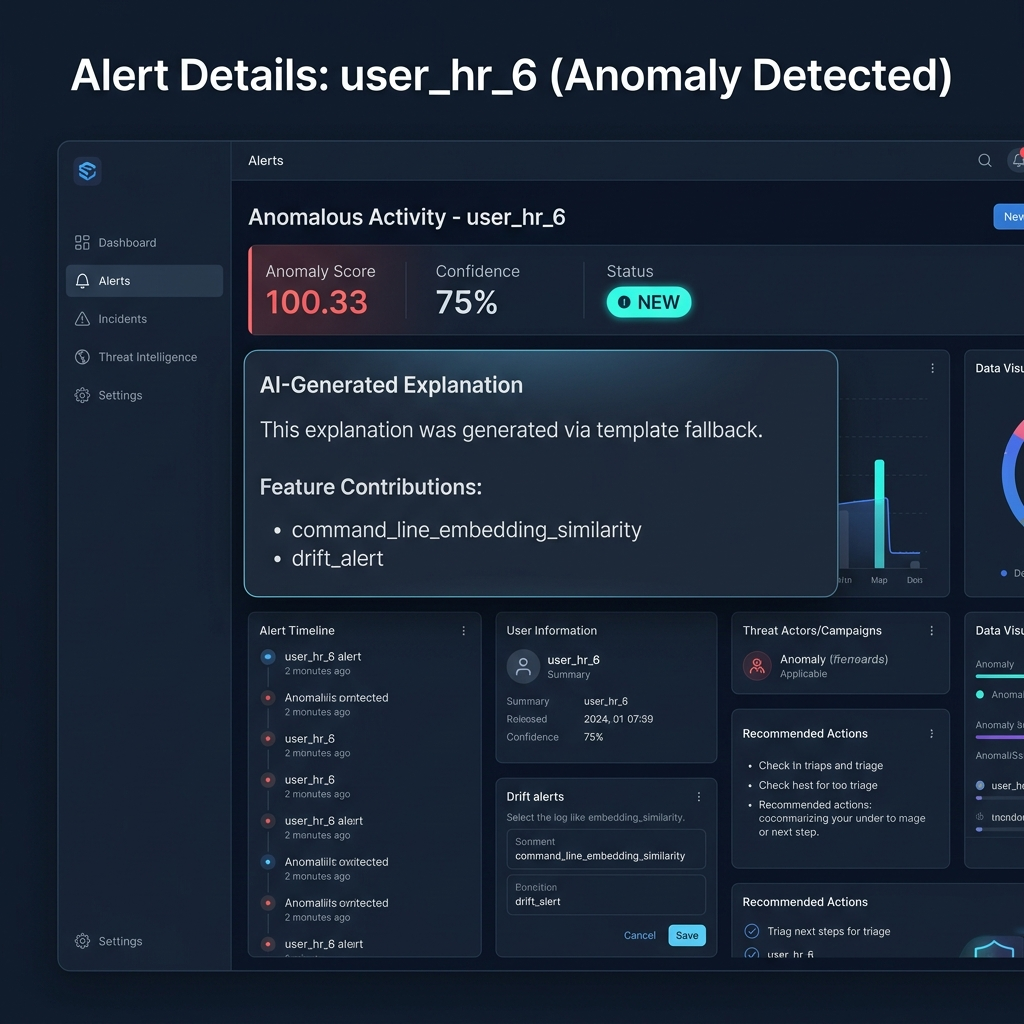
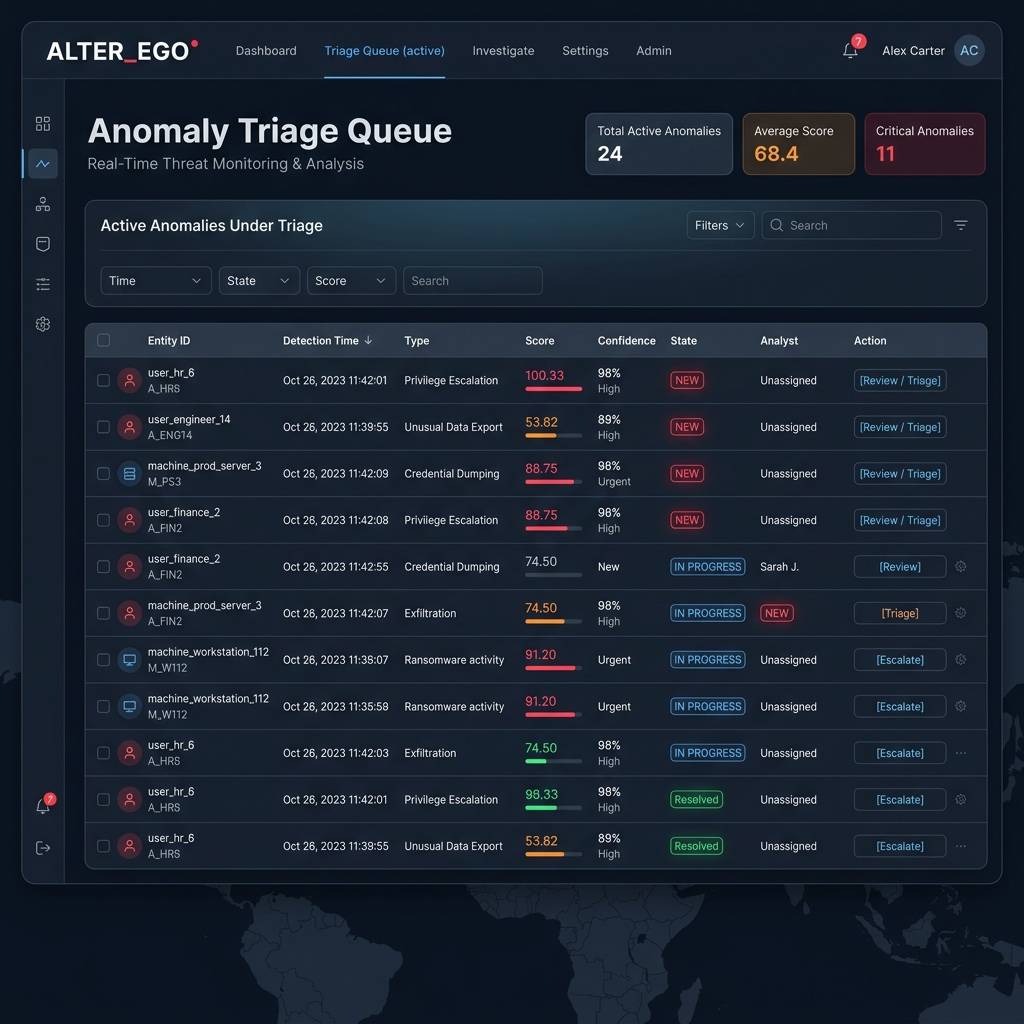
Update DecisionRecord schema and scorer with embedding_model_version, add profile builder test, remove unused check_sqlite.py

diff --git a/tests/batch/profile_builder/builder.py b/tests/batch/profile_builder/builder.py
@@ -1,2 +1,55 @@
-def test_dummy_builder():
-    pass
+import pytest
+from datetime import datetime
+from sqlalchemy import create_engine
+from sqlalchemy.orm import sessionmaker
+from sqlalchemy.ext.compiler import compiles
+from sqlalchemy.dialects.postgresql import JSONB, ARRAY
+
+from core.database import Base
+from core.models import ResolvedEventModel, ProfileArtifactModel
+from batch.profile_builder.builder import build_profiles
+
+@compiles(JSONB, "sqlite")
+def compile_jsonb_sqlite(type_, compiler, **kw):
+    return "JSON"
+
+@compiles(ARRAY, "sqlite")
+def compile_array_sqlite(type_, compiler, **kw):
+    return "JSON"
+
+@pytest.fixture
+def db_session():
+    engine = create_engine('sqlite:///:memory:')
+    Base.metadata.create_all(engine)
+    Session = sessionmaker(bind=engine)
+    session = Session()
+    yield session
+    session.close()
+
+def test_profile_builder_aggregates_correctly(db_session):
+    entity_id = "user_test"
+    t0 = datetime(2026, 1, 1, 15, 30, 0)
+    
+    e1 = ResolvedEventModel(
+        event_id="test_evt_1", timestamp=t0, event_type="login", raw_entity_id=entity_id,
+        entity_id=entity_id, entity_type="human", resolution_confidence=1.0,
+        simulation_partition="production", event_data={
+            "action": "login",
+            "endpoint_id": "endpoint_a",
+            "process_name": "bash",
+            "geolocation": "US"
+        }
+    )
+    db_session.add(e1)
+    db_session.commit()
+    
+    # Run the profile builder
+    build_profiles(db_session, as_of=t0)
+    
+    # Retrieve the built profile
+    profile = db_session.query(ProfileArtifactModel).filter(ProfileArtifactModel.entity_id == entity_id).first()
+    assert profile is not None, "Profile was not built"
+    assert profile.features["total_events"] == 1
+    assert profile.features["login_hours"]["15"] == 1
+    assert profile.features["endpoints"]["endpoint_a"] == 1
+    assert profile.features["process_names"]["bash"] == 1

diff --git a/worker/scorer.py b/worker/scorer.py
@@ -261,6 +261,7 @@ def score_event(db: Session, resolved_event: ResolvedEvent, profile: ProfileArti
             cohort_used="none",
             cohort_unsupported=True,
             flags=flags,
+            embedding_model_version=profile.embedding_model_version,
         )
 
     def get_rarity_score(val, hist, vocab_size, weight_key, feature_name, baseline_bits=0):
@@ -431,6 +432,7 @@ def score_event(db: Session, resolved_event: ResolvedEvent, profile: ProfileArti
         cohort_used=worst_level,
         cohort_unsupported=(worst_level == "terminus"),
         flags=flags,
+        embedding_model_version=profile.embedding_model_version,
     )
 
 

diff --git a/core/schemas/decisions.py b/core/schemas/decisions.py
@@ -23,6 +23,7 @@ class DecisionRecord(BaseModel):
     cohort_used: str
     cohort_unsupported: bool
     flags: List[str]
+    embedding_model_version: str = "unknown"
 
 from enum import Enum
 
